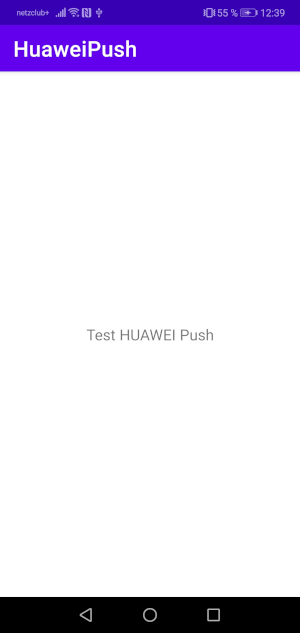
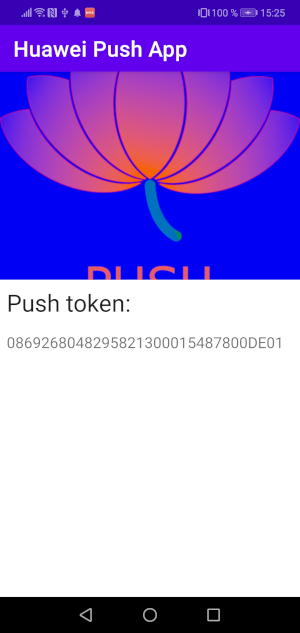
Change layout and display token

diff --git a/HuaweiPush/app/src/main/java/de/afarber/huaweipush/MainActivity.java b/HuaweiPush/app/src/main/java/de/afarber/huaweipush/MainActivity.java
@@ -1,16 +1,35 @@
 package de.afarber.huaweipush;
 
+import static de.afarber.huaweipush.MyApplication.TOKEN;
+
 import androidx.appcompat.app.AppCompatActivity;
 
+import android.content.SharedPreferences;
 import android.os.Bundle;
+import android.preference.PreferenceManager;
 import android.widget.TextView;
+
+import org.json.JSONObject;
 
 public class MainActivity extends AppCompatActivity {
     private TextView mTokenValue;
+
+    private final SharedPreferences.OnSharedPreferenceChangeListener mPrefsListener = (prefs, key) -> {
+        switch (key) {
+            case TOKEN:
+                String token = prefs.getString(key, null);
+                mTokenValue.setText(token);
+                break;
+        }
+    };
 
     @Override
     protected void onCreate(Bundle savedInstanceState) {
         super.onCreate(savedInstanceState);
         setContentView(R.layout.activity_main);
+        mTokenValue = findViewById(R.id.tokenValue);
+        SharedPreferences prefs = PreferenceManager.getDefaultSharedPreferences(this);
+        mPrefsListener.onSharedPreferenceChanged(prefs, TOKEN);
+        prefs.registerOnSharedPreferenceChangeListener(mPrefsListener);
     }
 }

diff --git a/README.md b/README.md
@@ -48,7 +48,7 @@ Screenshots
 ![screenshot](https://raw.github.com/afarber/android-newbie/master/HelloMoon/screenshot.png)
 
 
-[HuaweiPush](https://github.com/afarber/android-newbie/tree/master/HuaweiPush) Demo HUAWEI push token issue on ANE-LX1 EMUI 9.1 phone:
+[HuaweiPush](https://github.com/afarber/android-newbie/tree/master/HuaweiPush) Retrieve HUAWEI push token:
 
 ![screenshot](https://raw.github.com/afarber/android-newbie/master/HuaweiPush/screenshot.jpg)
 
